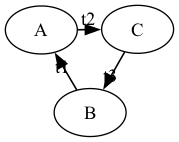
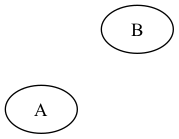
commit on all

diff --git a/specifications.py b/specifications.py
@@ -35,7 +35,7 @@ class Community:
         
         return run_model_steadystate(self.dR, self.dN, np.concatenate([self.N,self.R,self.T]), len(self.N), len(self.R),
                                      self.cp,self.inh, self.met, self.comb, self.p['g'], self.p['m'], self.p['w'], self.p['w_t'], self.p['l'], self.p['l_t'],
-                                     self.p['k'], self.p['sig_max'], self.p['tau'], self.p['tau_t'], self.p['tau_dil'], self.p['t_N'])
+                                     self.p['k'], self.p['sig_max'], self.p['tau'], self.p['tau_t'], self.p['tau_dil'])
 
 # ------------------------------------------------------------------------------------------------------
 # COMPETITION FOR ONE RESOURCE
@@ -154,20 +154,15 @@ parameters_dict_cf = { # initial resource availability
 
 # nodes dictionary (species)
 species_dict_pm = {'A' : 'specialist1',
-                   'B' : 'specialist2',
-                   'C' : 'specialist3'
+                   'B' : 'specialist2'
 }
 # edges dictionary (nutrients)
 # for each nutrients who produces it and all the species that use it
-nutrients_dict_pm = {'x' : ['AB', 0.4],
-                     'y' : ['BC', 0.4],
-                     'z' : ['CA', 0.4]
+nutrients_dict_pm = {'x' : ['AB', 0.3],
 }
 # define toxins dictionary
 # for each nutrients who produces it and all the species that use it
-toxins_dict_pm = { 't1' : ['BA', 0.4],
-                   't2' : ['AC', 0.4],
-                   't3' : ['CB', 0.4]
+toxins_dict_pm = { 
 }
 
 # make network consumer preferences matrix and metabolic matrix
@@ -178,33 +173,31 @@ def get_matrices_pm():
 
 # fix parameters
 parameters_dict_pm = { # initial resource availability
-                        'R_0_pm' : np.array([500,500,500]),   
+                        'R_0_pm' : np.array([100]),   
                         # initial toxins concentration
-                        'T_0_pm' : np.array([0,0,0]),
+                        'T_0_pm' : np.array([]),
                         # initial species abundance                                                
-                        'N_0_pm' : np.array([100,100,100]), 
+                        'N_0_pm' : np.array([1,100]), 
                         # inverse reinsertion rate                                                  
-                        'tau_pm' : np.array([1,1,1]), 
+                        'tau_pm' : np.array([2]), 
                         # toxins inverse insetrion rate
-                        'tau_t_pm' : np.array([100000,100000,100000]),
+                        'tau_t_pm' : np.array([]),
                         # dilution time
-                        'tau_dil_pm' : 50,
+                        'tau_dil_pm' : 1000,
                         # intrinsic growth rates                                              
-                        'g_pm' : np.array([0.4,0.4,0.4]), 
+                        'g_pm' : np.array([0.,1]), 
                         # maintainance energy requirements                                                    
-                        'm_pm' : np.array([0.1,0.1,0.1]),  
+                        'm_pm' : np.array([0.,0.8]),  
                         # external leakage of nutrients                                                         
-                        'l_pm' : np.array([0.8,0.8,0.8]),  
+                        'l_pm' : np.array([0.]),  
                         # toxins leakage
-                        'l_t_pm' : np.array([0.3,0.3,0.3]),
+                        'l_t_pm' : np.array([]),
                         # energy content of resources                                               
-                        'w_pm' : np.array([0.9,0.9,0.9]), 
+                        'w_pm' : np.array([1]), 
                         # energy content (negative) in toxins i.e. toxicity (?)
-                        'w_t_pm' : np.array([0.1,0.1,0.1]),
+                        'w_t_pm' : np.array([]),
                         # maximal absorption for Monod function
-                        'sig_max_pm' : 2,   
+                        'sig_max_pm' : 1,   
                         # vector with toxins maximal absorption
-                        'k_pm' : np.array([5,5,5]),          
-                        # fix time of simulation  
-                        't_N' : 50 
+                        'k_pm' : np.array([])
 }

diff --git a/models.py b/models.py
@@ -15,7 +15,7 @@ import scipy
 
 # model without integrating R but using the steady state by finding zeros of the differential equation
 
-def run_model_steadystate(dR, dN, y_init, N_species, N_nut, cp_matrix, tox_matrix, met_matrix, com_matrix, g, m, w, w_t, l, l_t, k, sig_max, tau, tau_t, tau_dil, t_N):
+def run_model_steadystate(dR, dN, y_init, N_species, N_nut, cp_matrix, tox_matrix, met_matrix, com_matrix, g, m, w, w_t, l, l_t, k, sig_max, tau, tau_t, tau_dil):
     
     # extract initial vectors, save elements vector to use for reinsertion
     N_0 = y_init[:N_species]
@@ -28,14 +28,26 @@ def run_model_steadystate(dR, dN, y_init, N_species, N_nut, cp_matrix, tox_matri
     N = []
     R = []
 
-    for i in range(t_N):
+    diff = N_0
+    N_prev = N_0
+ 
+    while((np.abs(diff) > 0.005).any()):
+
         # solve steady state for nutrients and toxins
         RT_ss = scipy.optimize.root(dR, RT_0, args=(N_0, com_matrix, met_matrix, RT_init[:N_nut], RT_init[N_nut:], tau, tau_t, tau_dil, w, w_t, l, l_t, sig_max), method='lm').x
+
+        # raise error and break if negative concentration of nutrients
+        if ((RT_ss<0).any()):
+          print('An error occurred, the concentration has reached negative')
+          return
+
         R_ss = RT_ss[:N_nut]
         T_ss = RT_ss[N_nut:]
         # integrate N one step
         N_out = scipy.integrate.solve_ivp(dN, (0,1), N_0, method='RK45', args=(R_ss, T_ss, cp_matrix, tox_matrix, g, l, w, m, k, tau_dil, sig_max))
         N_out.y[N_out.y<2]=0
+        diff = N_prev-N_out.y[:, -1]
+        N_prev = N_out.y[:, -1]
         # add results
         N.append(N_out.y[:, -1])
         R.append(RT_ss)

diff --git a/__init__.py b/__init__.py
@@ -20,22 +20,25 @@ importlib.reload(specifications)
 
 # prerape parameters dictionary
 # parameters list of keys
-keys_list = ['R_0','T_0','N_0','tau','tau_t','tau_dil','g','m','l','l_t','w','w_t','sig_max','k','t_N']
+keys_list = ['R_0','T_0','N_0','tau','tau_t','tau_dil','g','m','l','l_t','w','w_t','sig_max','k']
 
 param_dict_specific = specifications.parameters_dict_pm
 param_dict = {}
 for old_key, new_key in zip(param_dict_specific.keys(), keys_list):
         param_dict[new_key] = param_dict_specific[old_key]
 
-# prepare matrices
+# prepare matrices or import them
 matrices = get_matrices_pm()
+# matrices file paths
+# cp_mat, inh_mat, comb_mat, met_mat = 
 
 # prepare initial state
 y_0 = [param_dict['N_0'],param_dict['R_0'],param_dict['T_0']]
 
 # initialize community
-pm_community = Community(y_0,[dNdt,dR_ss],param_dict,matrices)
+community = Community(y_0,[dNdt,dR_ss],param_dict,matrices)
 
 # run model
-pm_community.run_steady_state()
+community.run_steady_state()
+
 
